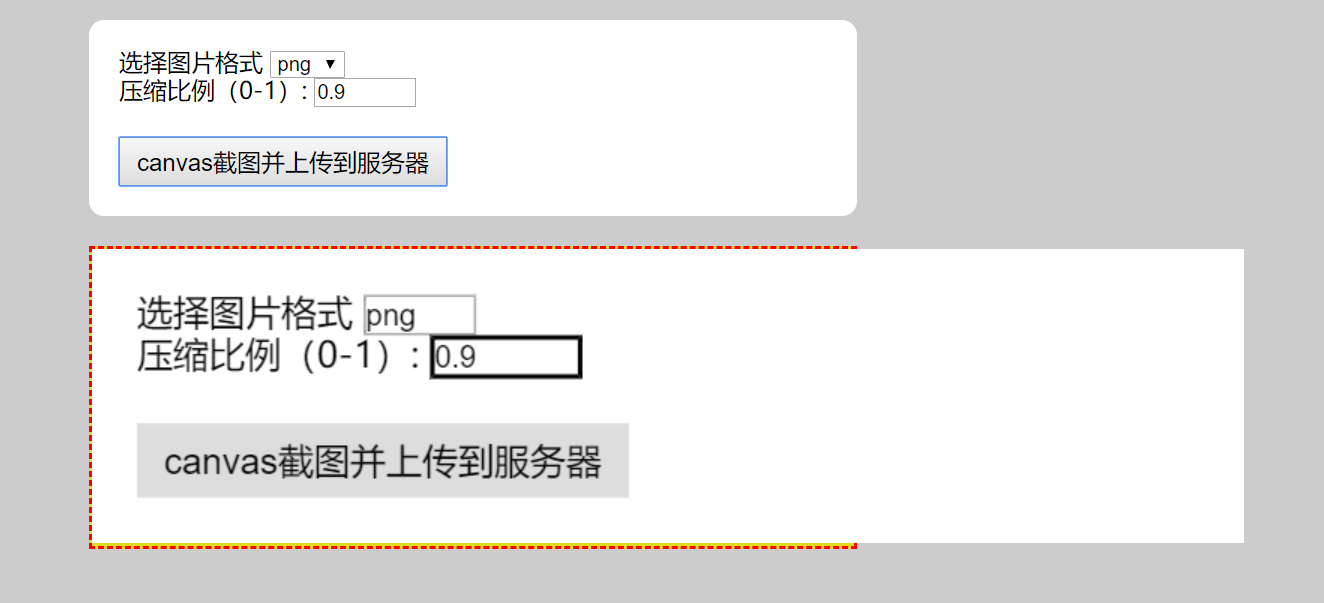
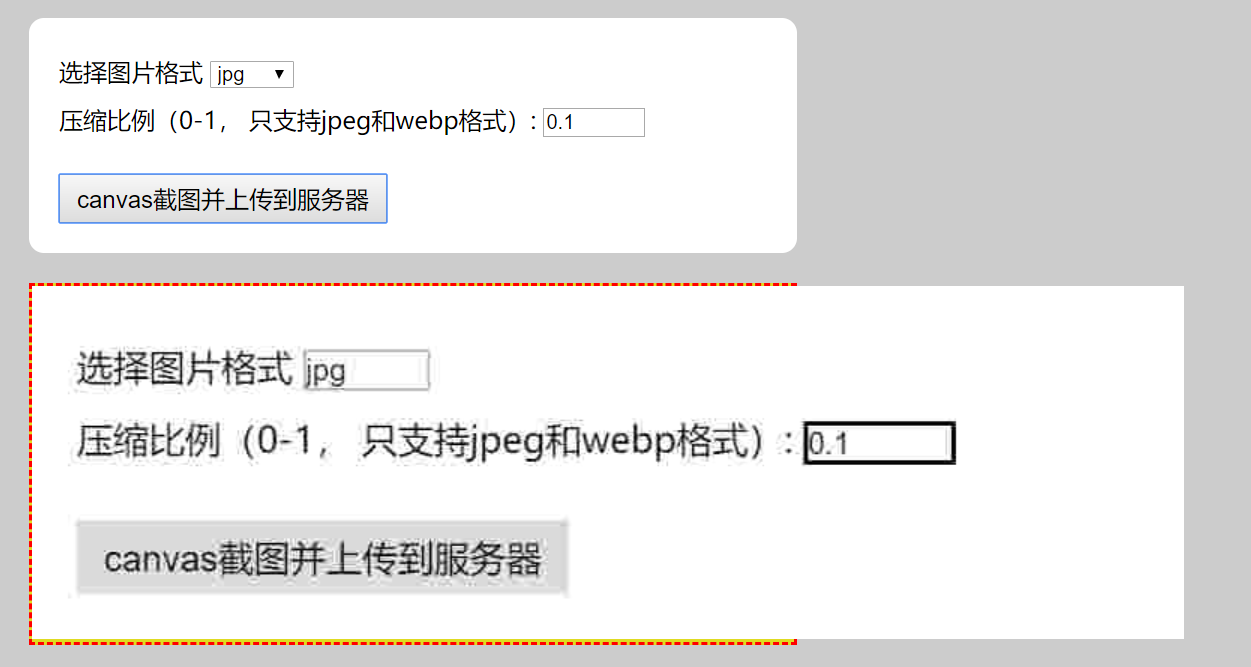
modify radio

Changed region(s): [[0.0, 0.0, 0.9664, 0.9851]]

diff --git a/public/index.html b/public/index.html
@@ -43,6 +43,7 @@
       padding: 20px;
       border-radius: 10px;
       box-sizing: border-box;
+      line-height: 2;
     }
 
     #img-box {
@@ -59,13 +60,14 @@
       <div>
         <span>选择图片格式</span>
         <select id="type">
-          <option value="png">png</option>
           <option value="jpeg">jpg</option>
+          <option value="webp">webp</option>
+          <option value="png">png</option>
           <option value="bmp">bmp</option>
         </select>
       </div>
       <div>
-        <span>压缩比例（0-1）: </span>
+        <span>压缩比例（0-1， 只支持jpeg和webp格式）: </span>
         <input id="radio" type="number" name="points" step="0.1" min="0.1" max="1" value="0.9" />
       </div>
       <button id="btn">canvas截图并上传到服务器</button>
@@ -84,7 +86,8 @@
     const img = document.querySelector('#img');
 
     btn.onclick = async () => {
-      const radio = radioDom.value;
+      const radio = +radioDom.value;
+      console.log(radio)
       const type = typeDom.value;
       let extname = '.png';
       if (type === 'jpeg') extname = '.jpeg';
